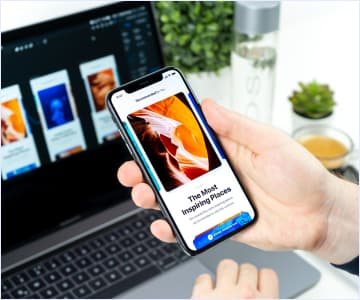
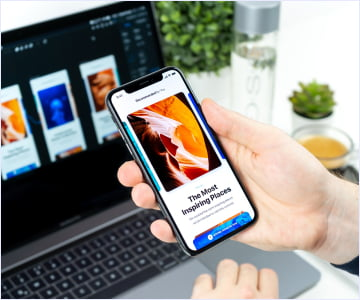
Update img, index.html
Update img (squoosh compress from 75 to 85), rename our-team > employees and update index.html

diff --git a/index.html b/index.html
@@ -94,13 +94,13 @@
           </li>
         </ul>
       </section>
-      <!-- OUR TEAM -->
+      <!-- EMPLOYEES -->
       <section>
         <h2>Our Team</h2>
         <ul>
           <li>
             <img
-              src="./images/our-team/mark-guerrero.jpg"
+              src="./images/employees/mark-guerrero.jpg"
               alt="Mark Guerrero's photo"
               width="264"
               height="260"
@@ -110,7 +110,7 @@
           </li>
           <li>
             <img
-              src="./images/our-team/tom-ford.jpg"
+              src="./images/employees/tom-ford.jpg"
               alt="Tom Ford's photo"
               width="264"
               height="260"
@@ -120,7 +120,7 @@
           </li>
           <li>
             <img
-              src="./images/our-team/camila-garcia.jpg"
+              src="./images/employees/camila-garcia.jpg"
               alt="Camila Garcia's photo"
               width="264"
               height="260"
@@ -130,7 +130,7 @@
           </li>
           <li>
             <img
-              src="./images/our-team/daniel-wilson.jpg"
+              src="./images/employees/daniel-wilson.jpg"
               alt="Daniel Wilson's photo"
               width="264"
               height="260"
